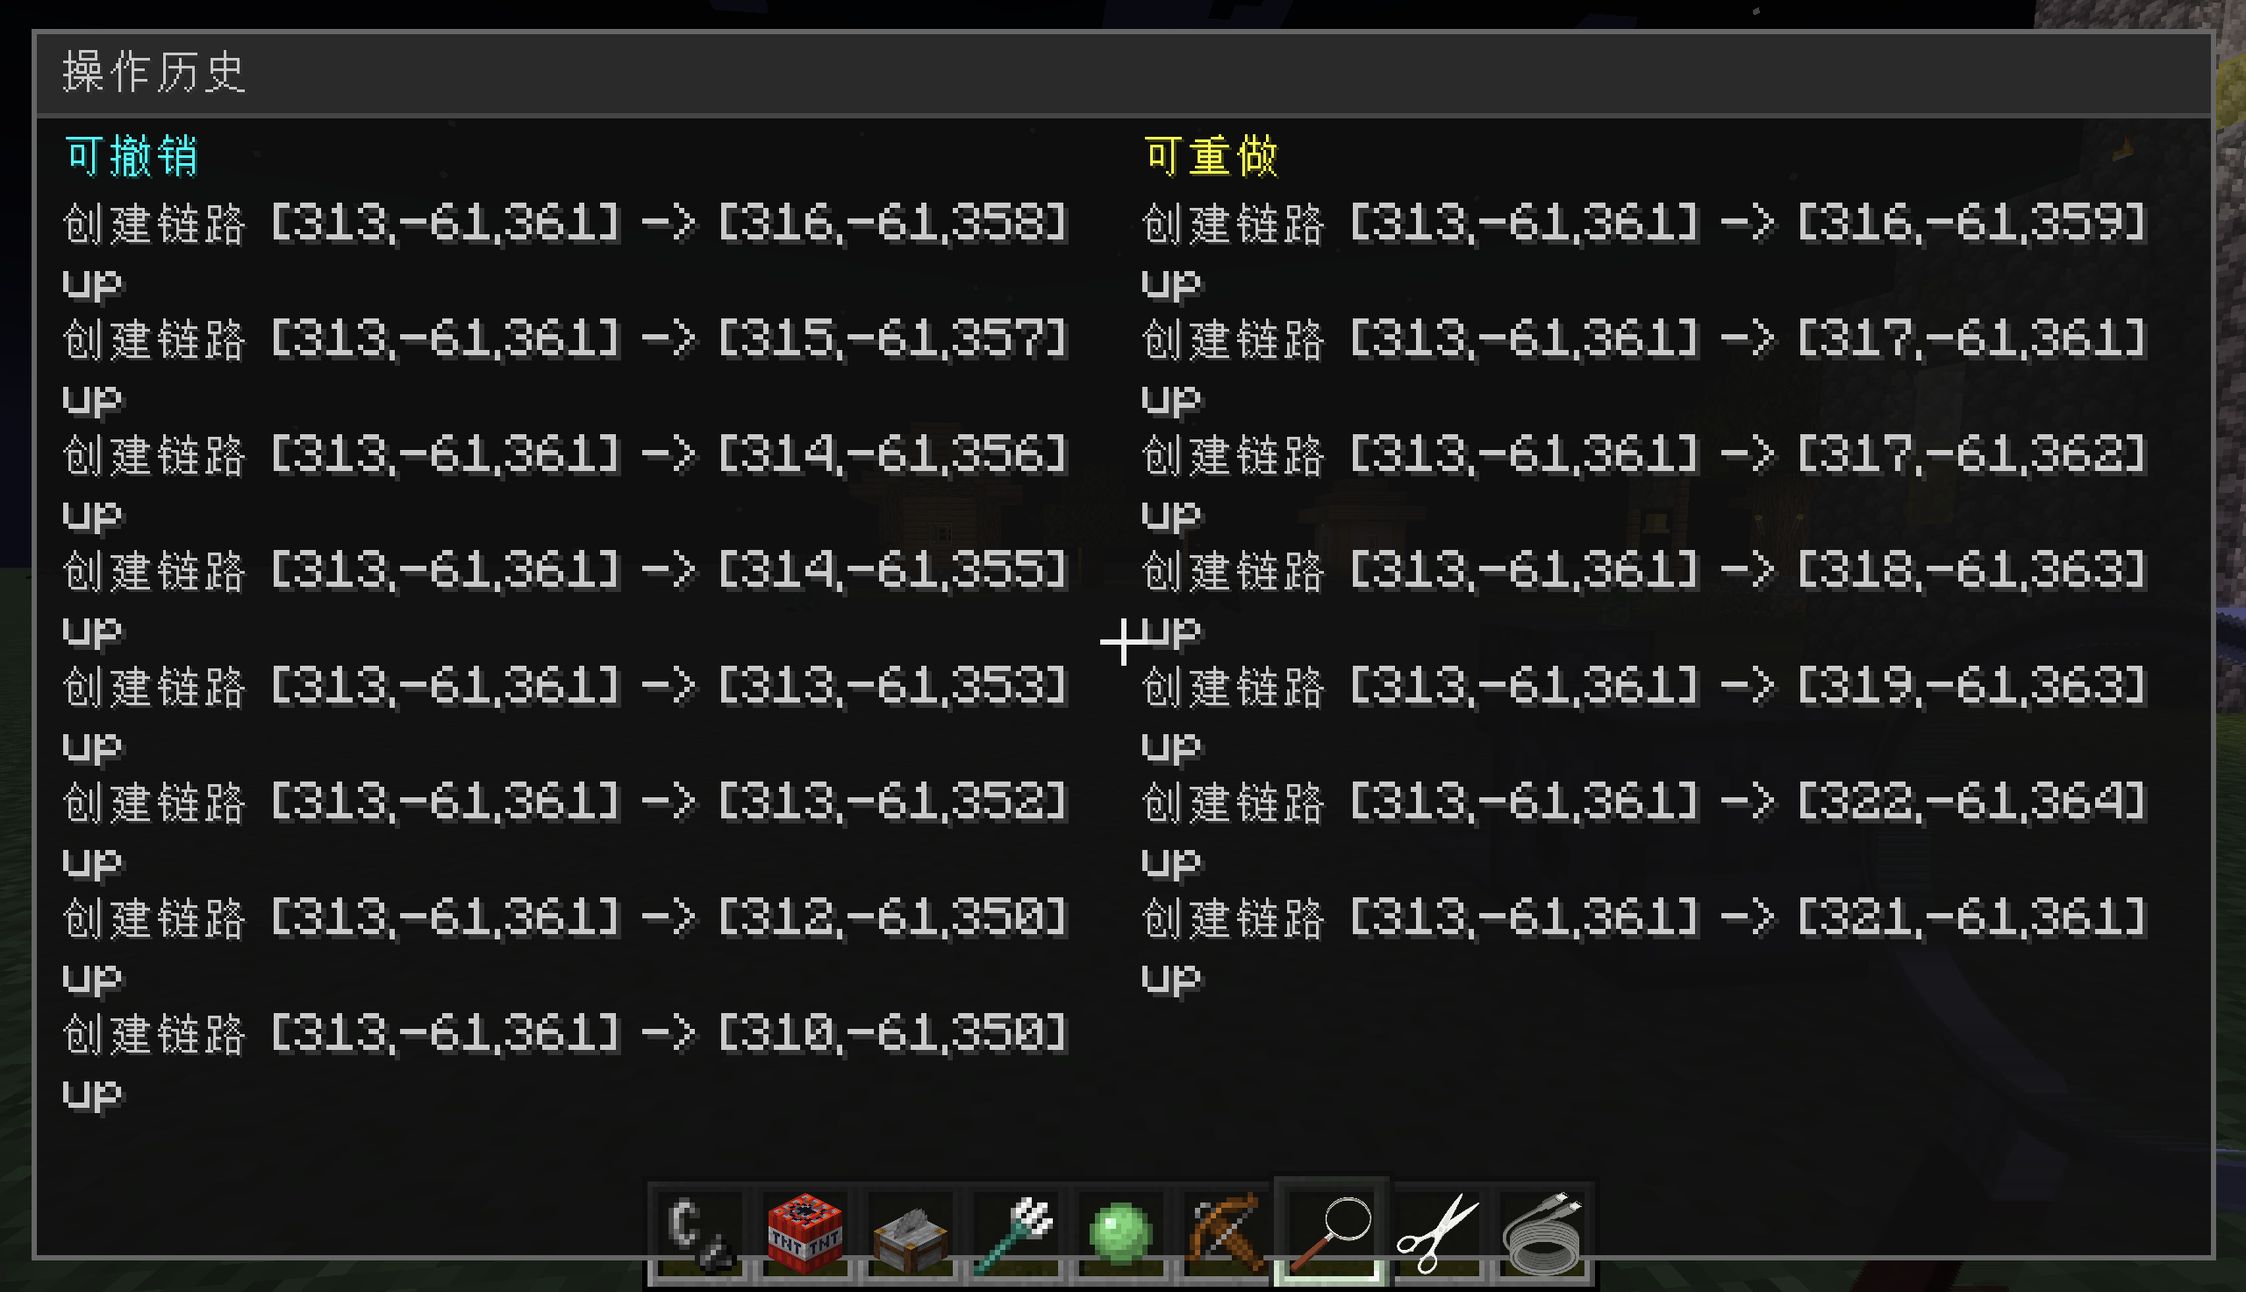
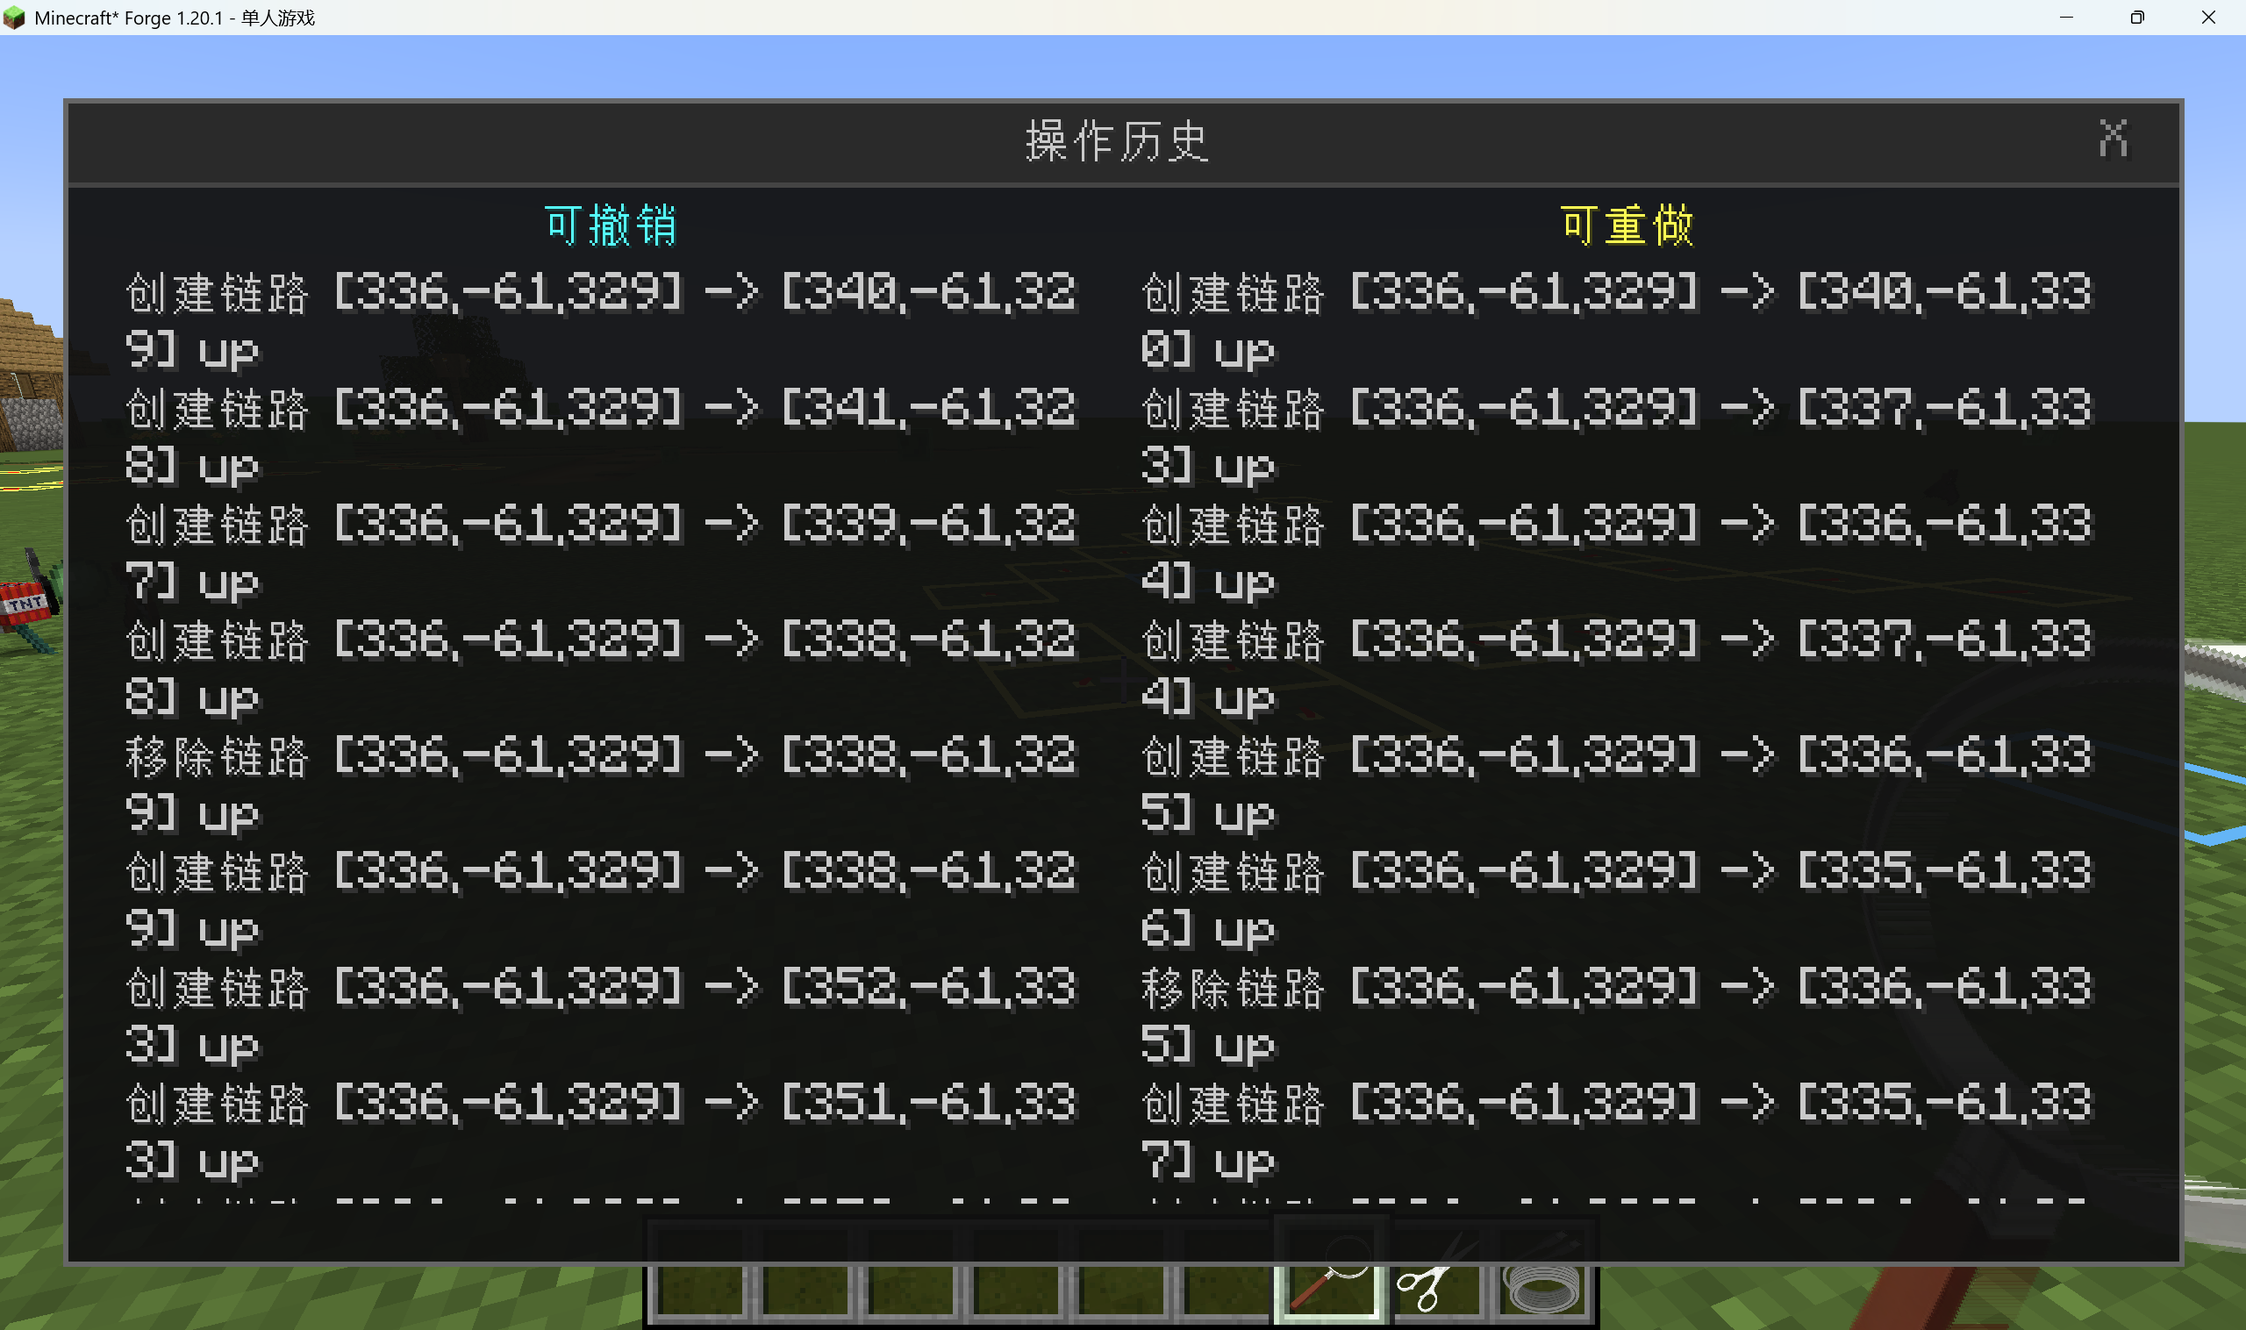
v0.5.2 [更新 README 与 CurseForge 发布描述]
- README 中英双版：新增"操作历史查看"小节（Ctrl+A 窗口页）；撤销/重做生效时机更新为手持线缆/线缆剪/放大镜任一；移除历史版本号标注；版本徽章链接改为 releases 列表页；源码目录结构补充操作历史窗口页
- CurseForge 发布描述中英双语：特性列表与撤销/重做章节补充操作历史查看，并新增配图

diff --git a/curseforge/README.md b/curseforge/README.md
@@ -24,6 +24,7 @@ Virtual Redstone Wire lets you transmit redstone signals between blocks wireless
 - **Zero space occupation** - no block entities, fully vanilla-compatible world
 - **Cable Magnifier** - highlights all links while held (blue input, yellow output, red path); sneak-right-click a block to inspect its links, or right-click a block to show its redstone signal strength and position above the hotbar
 - **Cable Cutter** - removes all outgoing links of an input block at once
+- **Undo / Redo and operation history** - press Ctrl+Z / Ctrl+Y to undo or redo recent link operations; while holding the Cable Magnifier, press Ctrl+A to review the undo/redo history on a dedicated screen
 
 ---
 
@@ -75,9 +76,13 @@ Virtual Redstone Wire lets you transmit redstone signals between blocks wireless
 
 ### Undo & Redo
 
-While holding a **Virtual Cable** or **Cable Cutter**, press `Ctrl+Z` to undo and `Ctrl+Y` to redo the most recent successful link operation (keybinds can be changed in the Controls settings). Undo cancels the latest operation (a created link is removed, a removed link is restored); redo re-executes it. History is client-side memory only (shared limit 20 by default, adjustable 10-100 in the Mods menu client config) and clears on game exit.
+While holding a **Virtual Cable**, **Cable Cutter**, or **Cable Magnifier**, press `Ctrl+Z` to undo and `Ctrl+Y` to redo the most recent successful link operation (keybinds can be changed in the Controls settings). Undo cancels the latest operation (a created link is removed, a removed link is restored); redo re-executes it. History is client-side memory only (shared limit 20 by default, adjustable 10-100 in the Mods menu client config) and clears on game exit.
 
 <img src="https://raw.githubusercontent.com/JularDepick/Virtual-Redstone-Wire/main/curseforge/41.png" alt="Undo a link creation with Ctrl+Z while holding the Virtual Cable" />
+
+While holding the **Cable Magnifier**, press `Ctrl+A` to open the operation history screen, which lists the operations you can currently undo or redo in two columns (operation type and endpoint coordinates); scroll with the mouse wheel when the list overflows. Press `Ctrl+Z` / `Ctrl+Y` inside the screen to undo/redo directly, with results refreshing in real time and chat feedback suppressed while it is open. Close it with the button at the panel's top-right corner, `ESC`, or `Ctrl+A` again.
+
+<img src="https://raw.githubusercontent.com/JularDepick/Virtual-Redstone-Wire/main/curseforge/42.png" alt="Operation history screen listing undoable and redoable link operations" />
 
 ---
 
@@ -178,6 +183,7 @@ The language setting is **client-side**: each player chooses their own language,
 - **零空间占用** - 不使用方块实体，完全兼容原版世界
 - **线缆放大镜** - 手持时高亮全部链路（蓝框输入、黄框输出、红线路径）；潜行右键方块查看链路信息，或右键方块在快捷栏上方显示其红石信号强度与坐标
 - **线缆剪** - 一次移除输入端方块的全部出链
+- **撤销/重做与操作历史** - 按 Ctrl+Z / Ctrl+Y 撤销或重做最近的链路操作；手持放大镜时按 Ctrl+A 在窗口页查看可撤销/可重做的操作历史
 
 ---
 
@@ -229,9 +235,13 @@ The language setting is **client-side**: each player chooses their own language,
 
 ### 撤销与重做
 
-手持**线缆**或**线缆剪**时, 按 `Ctrl+Z` 撤销、`Ctrl+Y` 重做最近一次成功的链路操作（可在游戏 Controls 设置中修改按键绑定）。撤销会取消最近一次操作（创建的链路被移除, 被移除的链路恢复）; 重做会重新执行它。历史仅保存在客户端内存（双栈共用上限默认 20, 可在 Mods 菜单客户端配置调整, 范围 10-100）, 退出游戏清空。
+手持**线缆**、**线缆剪**或**放大镜**时, 按 `Ctrl+Z` 撤销、`Ctrl+Y` 重做最近一次成功的链路操作（可在游戏 Controls 设置中修改按键绑定）。撤销会取消最近一次操作（创建的链路被移除, 被移除的链路恢复）; 重做会重新执行它。历史仅保存在客户端内存（双栈共用上限默认 20, 可在 Mods 菜单客户端配置调整, 范围 10-100）, 退出游戏清空。
 
 <img src="https://raw.githubusercontent.com/JularDepick/Virtual-Redstone-Wire/main/curseforge/41.png" alt="手持线缆按 Ctrl+Z 撤销链路创建" />
+
+手持**放大镜**时按 `Ctrl+A` 打开操作历史窗口页, 分两列列出当前可撤销与可重做的操作（操作类型与起终点坐标）, 列表超出时可用鼠标滚轮滚动查看。窗口页内可直接按 `Ctrl+Z` / `Ctrl+Y` 撤销或重做, 结果实时刷新, 且窗口页打开期间不弹出聊天栏提示。退出方式：面板右上角关闭按钮、`ESC`、再次按 `Ctrl+A`。
+
+<img src="https://raw.githubusercontent.com/JularDepick/Virtual-Redstone-Wire/main/curseforge/42.png" alt="操作历史窗口页列出可撤销与可重做的链路操作" />
 
 ---
 

diff --git a/README_en-US.md b/README_en-US.md
@@ -2,7 +2,7 @@
 
 # Virtual Redstone Wire
 
-[![Version](https://img.shields.io/badge/Version-0.5.2-red)](https://github.com/JularDepick/Virtual-Redstone-Wire/releases/tag/v0.5.0)
+[![Version](https://img.shields.io/badge/Version-0.5.2-red)](https://github.com/JularDepick/Virtual-Redstone-Wire/releases)
 [![Copyright](https://img.shields.io/badge/Copyright-JularDepick-0066AA)](./COPYRIGHT)
 [![License](https://img.shields.io/badge/License-MIT-yellow)](./LICENSE)
 
@@ -39,18 +39,26 @@ Installation: put the downloaded mod jar into your `.minecraft/mods` folder (For
 - Links are directional: the signal exits from the clicked face of the output block (face-accurate); a redstone lamp placed on the output block itself lights up
 - Works when the source is placed after the link: placing/removing a signal source or flipping a lever refreshes the link signal in real-time
 - Chat feedback is disabled by default; can be enabled in-game from the Mods menu or in the config file
-- Link data lookups are index-accelerated (v0.5.1): creating/removing links stays responsive even with many links
+- Link data lookups are index-accelerated: creating/removing links stays responsive even with many links
 
 ## Undo & Redo
 
 Undo/redo lets you revert or replay your most recent successful link operations:
 
-- While holding a Virtual Cable or Cable Cutter (main or off hand), press `Ctrl+Z` to undo and `Ctrl+Y` to redo (keybinds can be changed in the Controls settings)
+- While holding a Virtual Cable, Cable Cutter, or Cable Magnifier (main or off hand), press `Ctrl+Z` to undo and `Ctrl+Y` to redo (keybinds can be changed in the Controls settings)
 - Undo cancels the most recent successful link operation: a created link is removed, a removed link is restored; redo re-executes the most recently undone operation
 - Press `Ctrl+Z` repeatedly to step back through multiple operations; performing a new operation after undoing clears the redo history
 - Operation history is client-side only: the undo and redo stacks share a size limit (default 20, adjustable 10-100 in the Mods menu client config), cleared on game exit
 - When there is nothing to undo/redo or an operation is rejected, a chat message shows the reason (controlled by the client "Undo/Redo feedback" option, enabled by default; after an empty-stack prompt, further presses are ignored for 3 seconds)
 - Links removed in batch by the Cable Cutter can be undone as a whole (one undo restores all of them)
+
+## Operation History
+
+While holding the Cable Magnifier, press `Ctrl+A` to open the operation history screen and review the operations you can currently undo or redo:
+
+- Shows undoable and redoable operations in two columns (operation type and endpoint coordinates); scroll with the mouse wheel when the list overflows
+- Press `Ctrl+Z` / `Ctrl+Y` inside the screen to undo/redo directly; the page refreshes in real time and chat feedback is suppressed while it is open
+- Close with the button at the panel's top-right corner, `ESC`, or `Ctrl+A` again (keybinds can be changed in the Controls settings)
 
 ## Usage Tip
 
@@ -103,10 +111,11 @@ src/main/java/com/virtualredstonewire/
 │   ├── ClientCableCache.java         # Client-side link cache (versioned, read-only, indexed)
 │   ├── CableClientQueue.java         # Operation queue (single in-flight)
 │   ├── CableClientEvents.java        # Full sync on connect/dimension change
-│   ├── CableUndoRedoManager.java     # Undo/redo (dual stacks, keybinds)
+│   ├── CableUndoRedoManager.java     # Undo/redo (dual stacks, keybinds, history screen)
 │   ├── CableActionBarHud.java        # Signal popup above the hotbar
 │   ├── gui/CableInfoScreen.java      # Cable info GUI panel
 │   ├── gui/CableInfoScreenOpener.java
+│   ├── gui/CableUndoRedoHistoryScreen.java # Operation history screen (undoable/redoable)
 │   ├── gui/ClientConfigScreen.java   # Mods menu config index (config file list)
 │   ├── gui/ClientConfigSubScreen.java # Client config file sub-page
 │   ├── gui/ServerConfigSubScreen.java # Server config file sub-page (owner-only)

diff --git a/README.md b/README.md
@@ -2,7 +2,7 @@
 
 # Virtual Redstone Wire (虚拟红石线缆)
 
-[![Version](https://img.shields.io/badge/Version-0.5.2-red)](https://github.com/JularDepick/Virtual-Redstone-Wire/releases/tag/v0.5.0)
+[![Version](https://img.shields.io/badge/Version-0.5.2-red)](https://github.com/JularDepick/Virtual-Redstone-Wire/releases)
 [![Copyright](https://img.shields.io/badge/Copyright-JularDepick-0066AA)](./COPYRIGHT)
 [![License](https://img.shields.io/badge/License-MIT-yellow)](./LICENSE)
 
@@ -39,18 +39,26 @@
 - 链路有方向：信号从输出方块的指定面射出（方向精确），红石灯放在输出端方块本身上即可点亮
 - 支持先建链后放源：放置/移除信号源、拨动拉杆等操作会实时刷新链路信号
 - 聊天栏操作反馈默认关闭，可在游戏内 Mods 菜单或配置文件中启用
-- 链路数据查询索引加速（v0.5.1）：链路数量较多时建链/删链操作响应更流畅
+- 链路数据查询已索引加速：链路数量较多时建链/删链操作响应更流畅
 
 ## 撤销与重做
 
 撤销/重做可回退或重放最近成功的链路操作，避免误操作后手动重建：
 
-- 手持线缆或线缆剪（主手或副手均可）时，按 `Ctrl+Z` 撤销、`Ctrl+Y` 重做（可在游戏 Controls 设置中修改按键绑定）
+- 手持线缆、线缆剪或放大镜（主手或副手任一）时，按 `Ctrl+Z` 撤销、`Ctrl+Y` 重做（可在游戏 Controls 设置中修改按键绑定）
 - 撤销会取消最近一次成功的链路操作：创建的链路被移除，被移除的链路恢复；重做会重新执行最近一次被撤销的操作
 - 连续按 `Ctrl+Z` 可逐步回退多次操作；撤销后执行新的操作会清空重做历史
 - 操作历史仅保存在客户端内存：撤销/重做双栈共用上限（默认 20，可在游戏内 Mods 菜单客户端配置中调整，范围 10-100），退出游戏清空
 - 无可撤销/重做或操作被拒绝时，聊天栏提示原因（受客户端"撤销/重做提示"开关控制，默认开启；空栈提示后 3 秒内按键不重复响应）
 - 线缆剪批量删除的链路可整体撤销（一次撤销恢复全部被剪链路）
+
+## 操作历史查看
+
+手持放大镜时按 `Ctrl+A` 打开操作历史窗口页，查看当前可撤销与可重做的链路操作：
+
+- 窗口页分两列显示可撤销、可重做的历史操作（操作类型与起终点坐标），列表超出时可用鼠标滚轮滚动查看
+- 窗口页内可直接按 `Ctrl+Z` 撤销、`Ctrl+Y` 重做，结果在页面内实时刷新；窗口页打开期间不弹出聊天栏提示
+- 退出方式：面板右上角关闭按钮、`ESC`、再次按 `Ctrl+A`（按键可在游戏 Controls 设置中修改）
 
 ## 使用建议
 
@@ -103,10 +111,11 @@ src/main/java/com/virtualredstonewire/
 │   ├── ClientCableCache.java         # 客户端链路缓存(版本化,只读,索引化)
 │   ├── CableClientQueue.java         # 操作任务队列(单在途/来源标记)
 │   ├── CableClientEvents.java        # 连接/维度切换全量同步
-│   ├── CableUndoRedoManager.java     # 撤销/重做(双栈/快捷键)
+│   ├── CableUndoRedoManager.java     # 撤销/重做(双栈/快捷键/历史窗口页)
 │   ├── CableActionBarHud.java        # 快捷栏上方信号飘浮提示
 │   ├── gui/CableInfoScreen.java      # 线缆信息 GUI 面板
 │   ├── gui/CableInfoScreenOpener.java
+│   ├── gui/CableUndoRedoHistoryScreen.java # 操作历史窗口页(可撤销/可重做)
 │   ├── gui/ClientConfigScreen.java   # Mods 菜单配置索引页(配置文件列表)
 │   ├── gui/ClientConfigSubScreen.java # 客户端配置文件子页
 │   ├── gui/ServerConfigSubScreen.java # 服务端配置文件子页(仅拥有者)

diff --git a/CHANGELOG.md b/CHANGELOG.md
@@ -1,5 +1,49 @@
 # 变更日志
 
+## 67ddf74
+### 修复撤销/重做历史窗口页背景、关闭按钮与滚动条
+
+- 面板主体背景改为渲染阶段直接绘制，修复在世界中打开时主体背景透明的问题
+- 关闭方式改为面板右上角叉形按钮（悬停高亮），移除底部退出按钮与对应语言键
+- 移除滚动条，保留鼠标滚轮滚动列表
+- 移除渲染层级提升，层级改由窗口页打开期间不渲染本模组 HUD 提示保障
+
+## 53695ca
+### 撤销/重做历史改为独立窗口页并完善交互与提示
+
+- 历史界面由 HUD 浮窗改为独立窗口页：打开即释放鼠标可点击交互，支持关闭按钮 / ESC / 再次 Ctrl+A 退出，不暂停游戏
+- 布局：固定全屏面板、两列固定列宽、条目文本超出列宽自动换行、标题与表头水平居中、双列列表整体滚轮滚动
+- 面板边距与内边距取常规两倍，使内容避开物品栏等 HUD 区域
+- 窗口页内 Ctrl+Z / Ctrl+Y 可直接撤销/重做并实时刷新；打开期间抑制撤销/重做与链路操作的聊天栏提示，关闭后恢复
+- 补充 CurseForge 发布素材图
+
+## 75410f6
+### 实现撤销/重做历史可视化浮窗并调整项目结构与贴图
+
+- 新增撤销/重做历史可视化浮窗：手持放大镜时 Ctrl+A 切换显示/隐藏，固定全屏面板 + 两列固定列宽 + 条目文本自动换行
+- 撤销/重做快捷键生效时机扩展为手持线缆/线缆剪/放大镜任一，同一时刻仅响应一个本模组快捷键
+- 项目结构调整：素材源文件迁移至 temp/assets，去背景脚本迁移至仓库根 scripts/
+- 物品贴图替换为 256x256
+- README 版本徽章与相关说明更新
+
+## 46ace3b
+### v0.5.1 [README 补充链路数据查询索引加速说明]
+
+- README 中英双版补充链路数据查询索引加速说明（红石行为章节）
+
+## 2e232ec
+### v0.5.1 [迭代版本号、实现客户端缓存索引化、更新文档]
+
+- 版本号迭代至 0.5.1
+- 客户端缓存索引化：新增按链路唯一标识索引的映射表，与保序列表构成双视图，存在性判断/去重/精确移除由 O(n) 降至 O(1)；变更统一经单一更新入口原子同步双视图
+- 清理无消费方的遗留过渡更新接口
+- README 双版版本徽章与源码目录注释更新
+
+## e6b31cb
+### update FUNDING.yml
+
+- 更新 GitHub 赞助（FUNDING）配置文件
+
 ## d70dc62
 ### update 41.png
 
